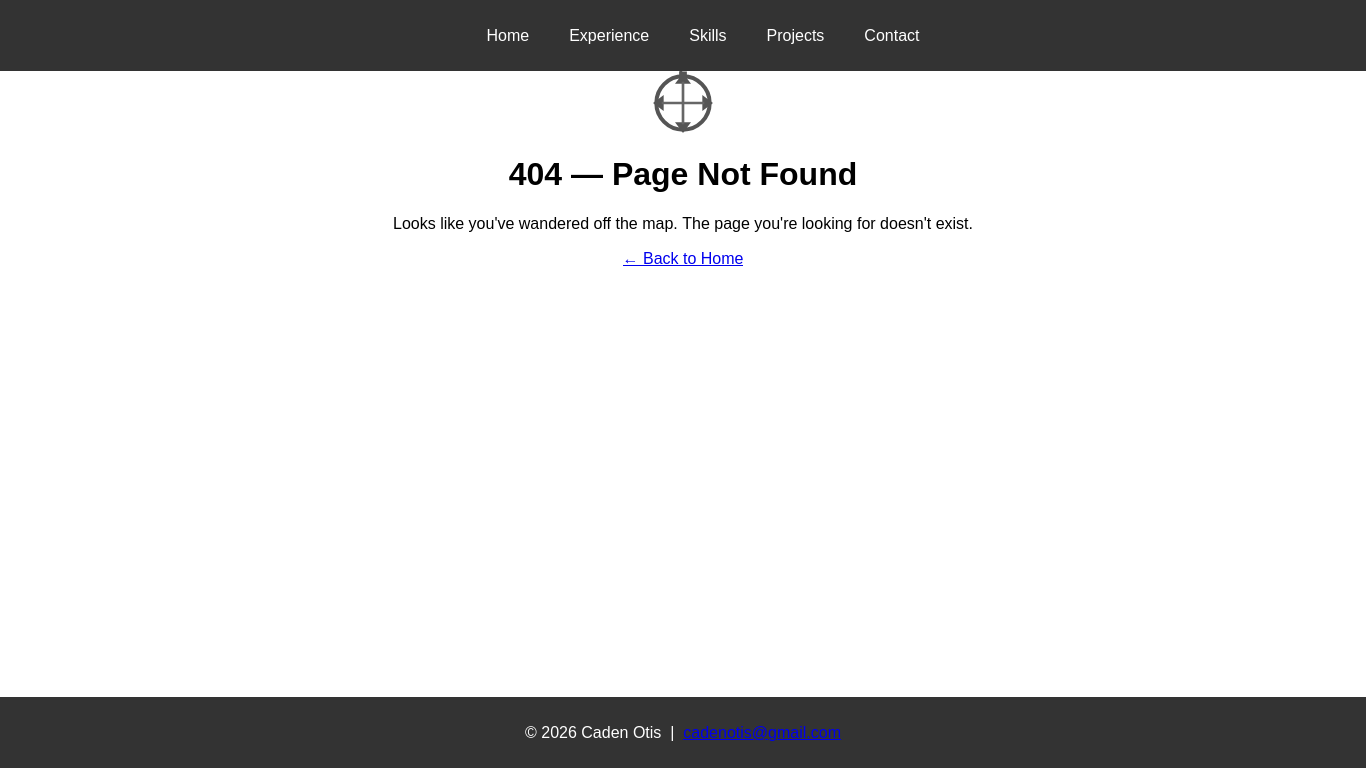
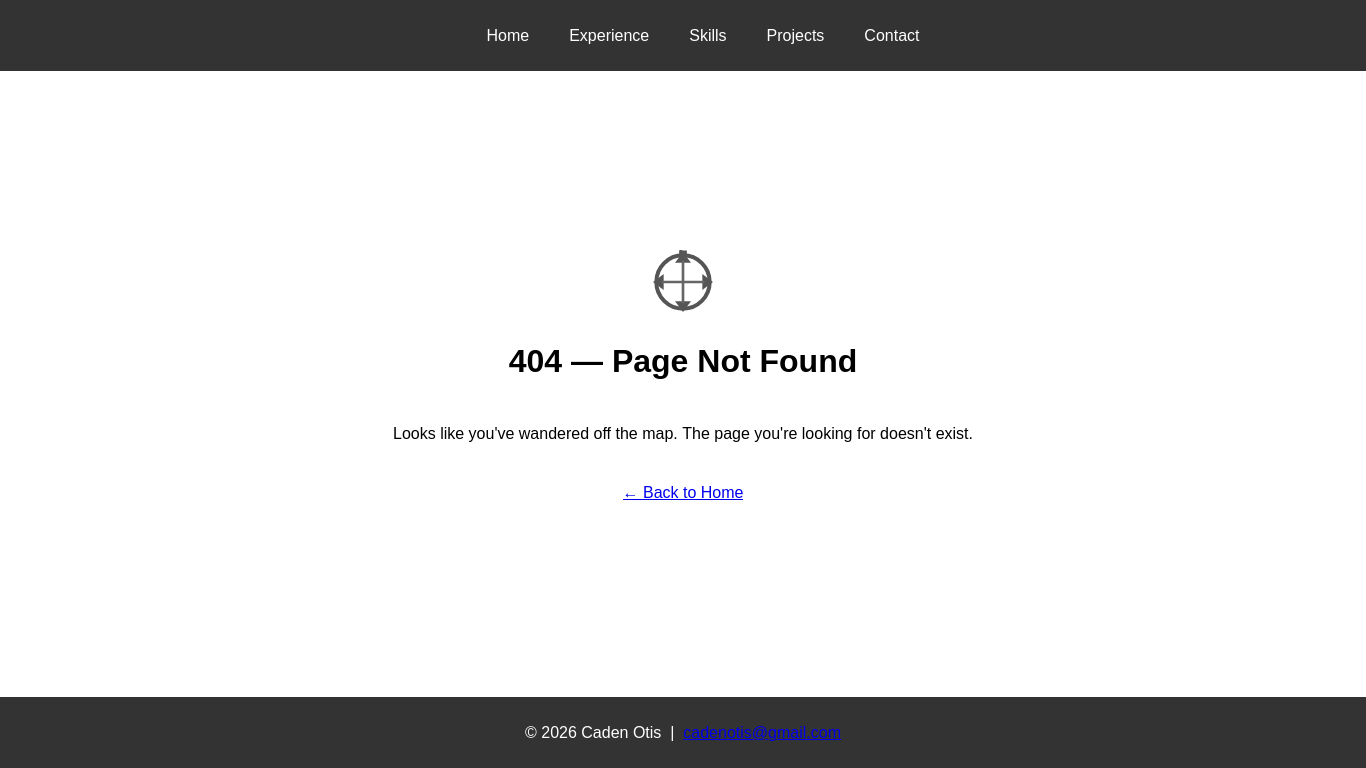
fix: vertically center 404 content between nav and footer

diff --git a/style.css b/style.css
@@ -69,12 +69,17 @@ footer {
 }
 
 #not-found {
+    flex: 1;
+    display: flex;
+    flex-direction: column;
+    justify-content: center;
+    align-items: center;
+    gap: 8px;
     text-align: center;
 }
 
 #not-found .compass-icon {
     display: block;
-    margin: 0 auto 16px;
 }
 
 #not-found .back-link {
